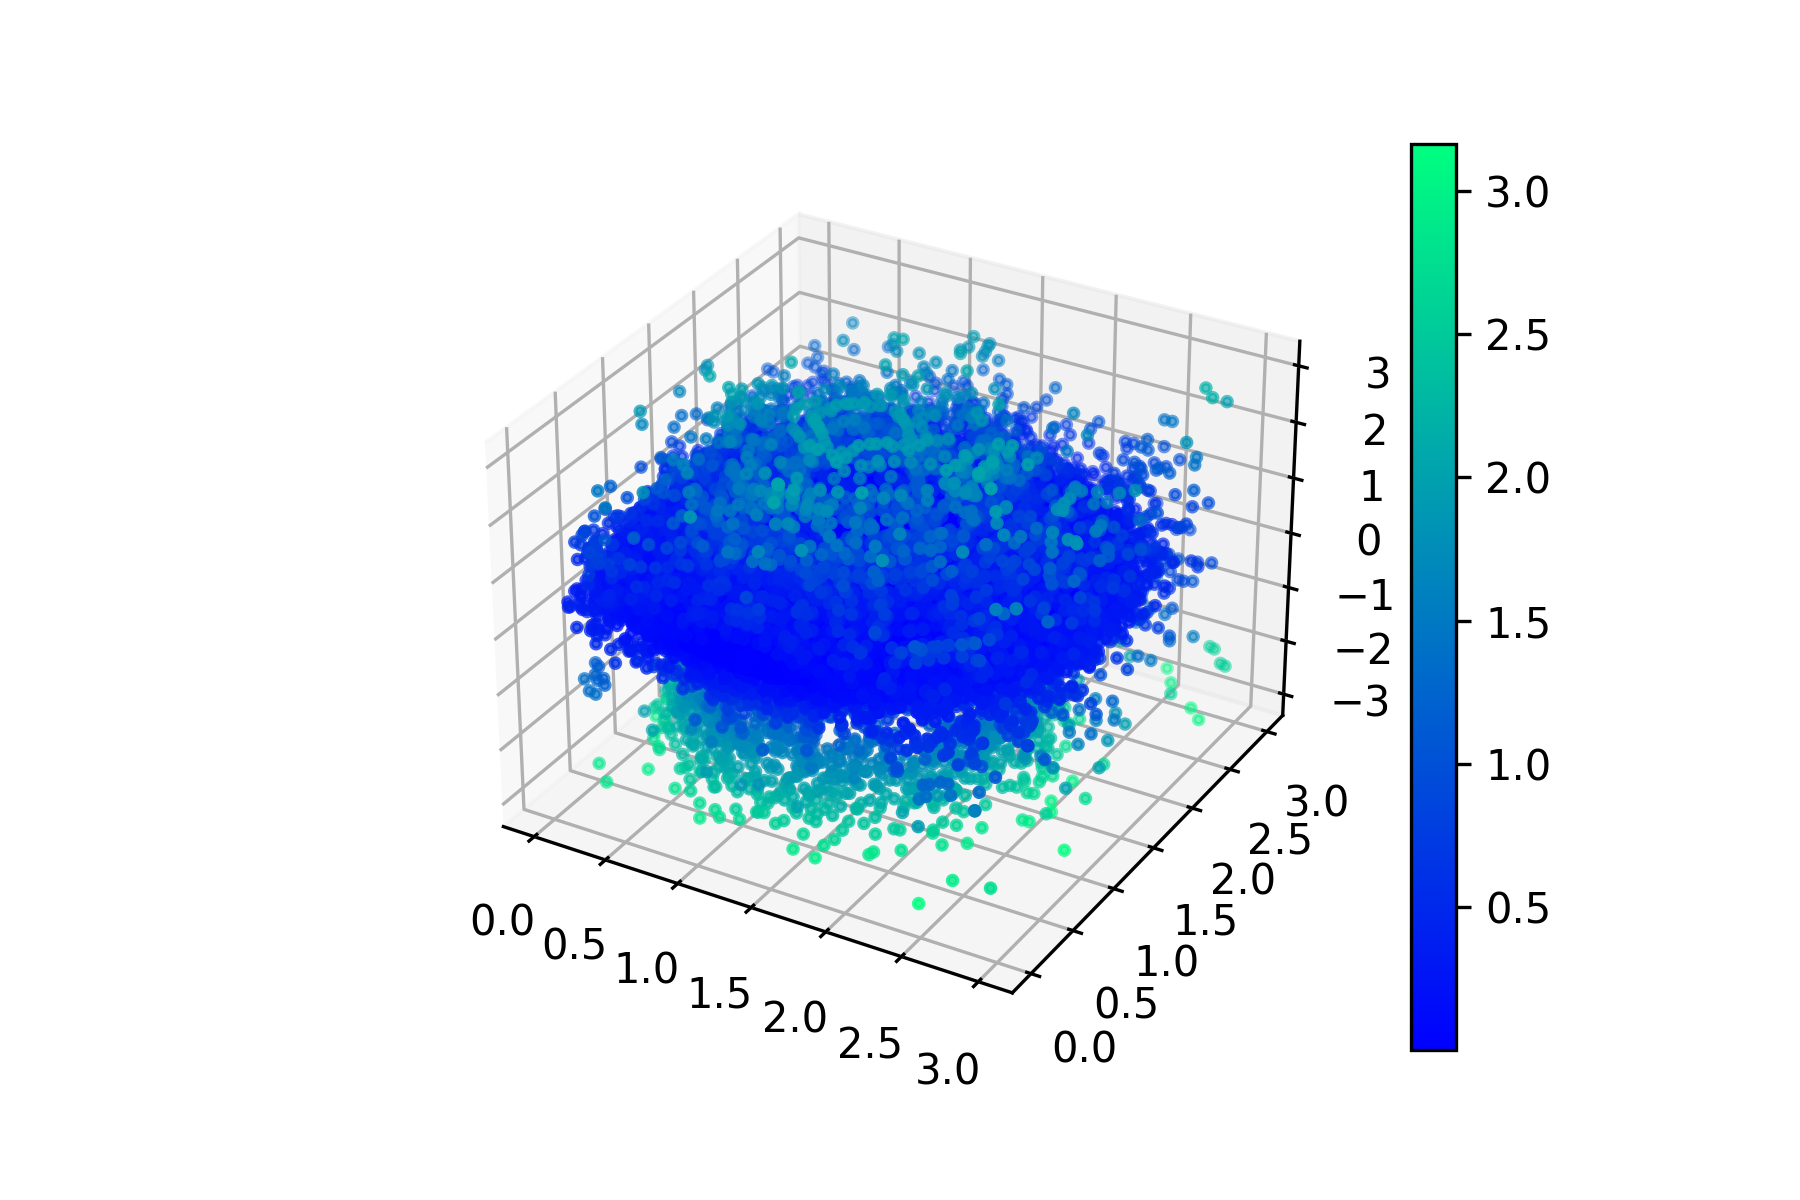
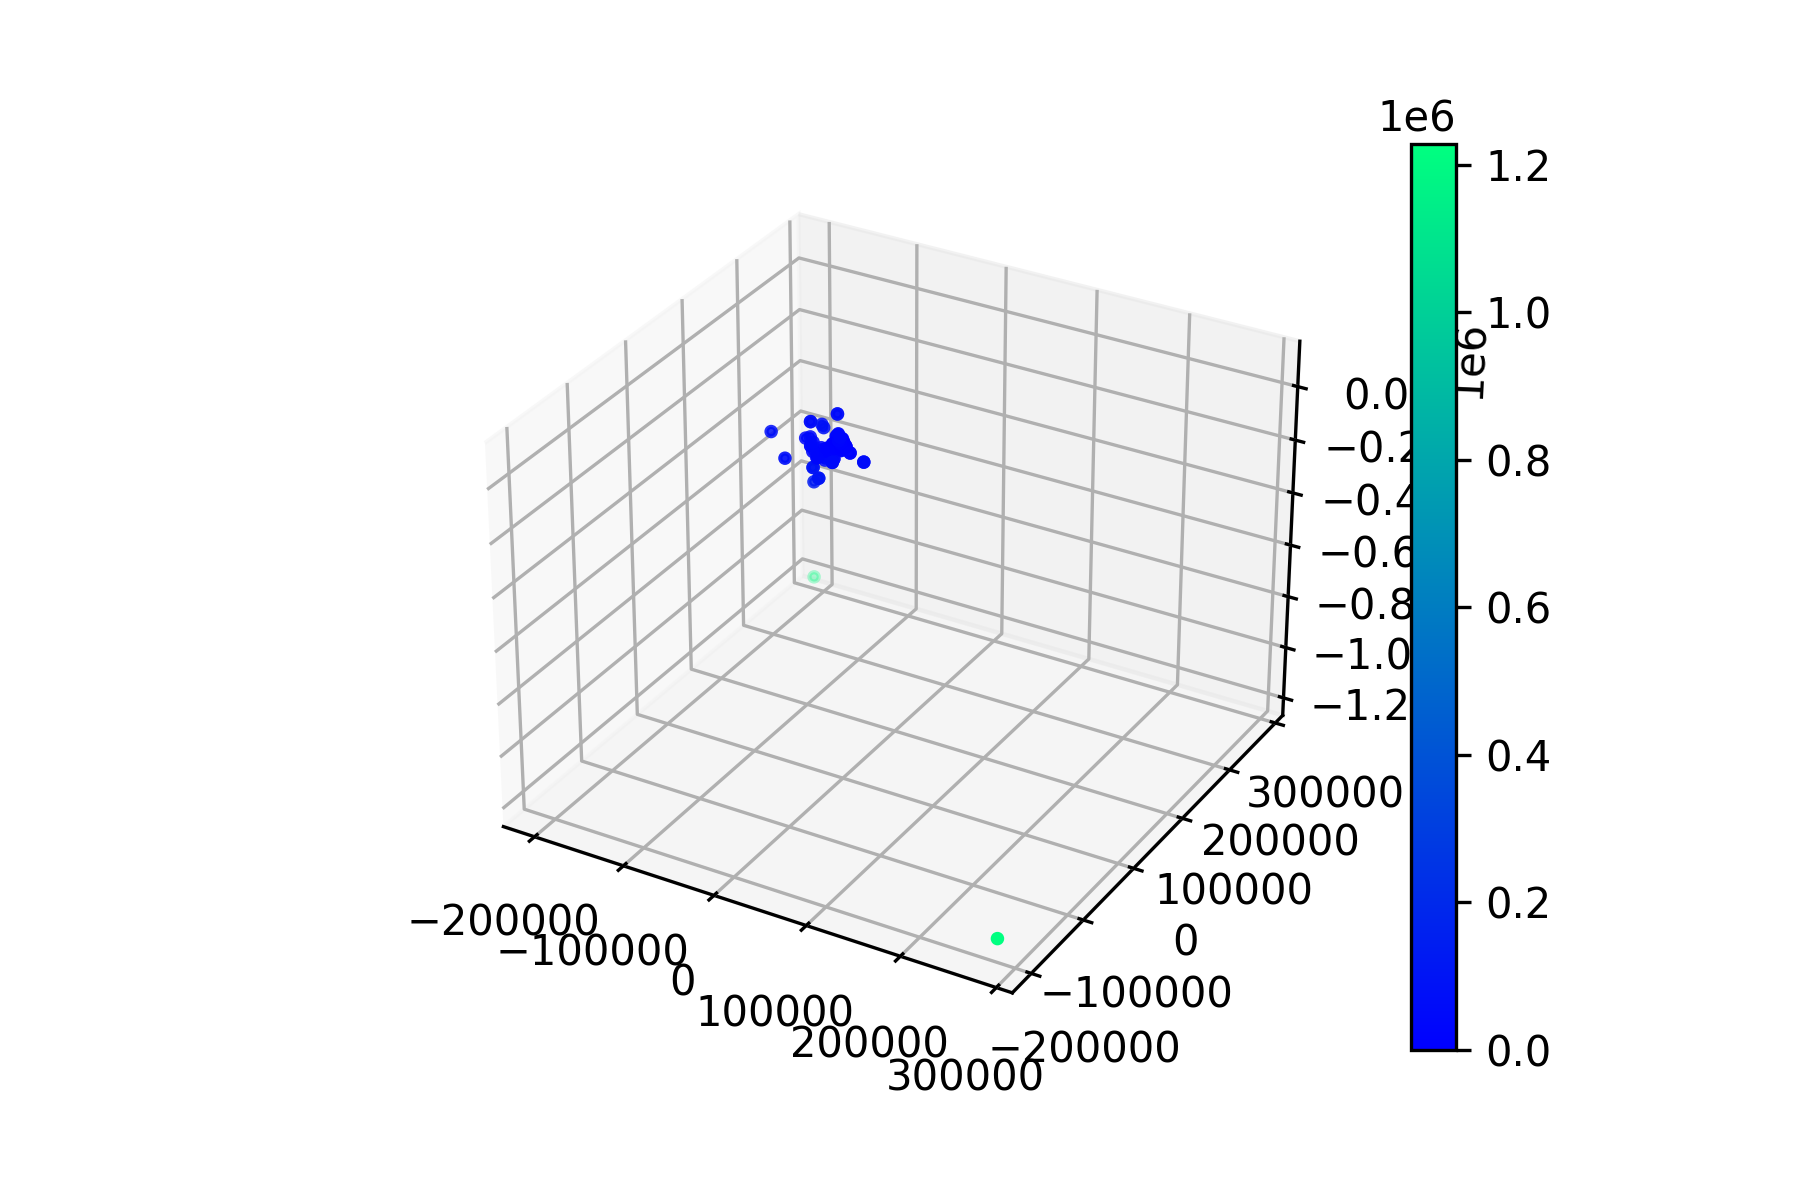
testrun

diff --git a/SkeleNet.py b/SkeleNet.py
@@ -151,7 +151,8 @@ def skeletize(points : list,norms : list,threshDistance : float,tree : kdTree,an
                     # print('norm')
                     SkelePoints.append(centerp[leng])
                     SkeleRad.append(tempr[leng])
-                
+                if SkeleRad[len(SkeleRad)] > 10:
+                    print('Error1')
                 case = True 
             
             #Overshooting  
@@ -163,6 +164,8 @@ def skeletize(points : list,norms : list,threshDistance : float,tree : kdTree,an
                     acp[index].append(centerp[leng - 1])
                     atp[index].append(testp[leng - 1])
                     arad[index].append(tempr[leng - 1])
+                if SkeleRad[len(SkeleRad)] > 10:
+                    print('Error2')
                 case = True
 
             elif i > 1 and dist  < tempr[leng] + threshDistance:
@@ -209,6 +212,8 @@ def skeletize(points : list,norms : list,threshDistance : float,tree : kdTree,an
                         acp[index].append(centerp[leng - 1])
                         atp[index].append(testp[leng - 1])
                         arad[index].append(tempr[leng - 1])
+                    if SkeleRad[len(SkeleRad)] > 10:
+                        print('Error3')
                     case = True
             
             
@@ -237,6 +242,8 @@ def skeletize(points : list,norms : list,threshDistance : float,tree : kdTree,an
                    print(point,testp,tempr,centerp)
                    SkeleRad.append(sml)
                    SkelePoints.append(centerp[n])
+                   if SkeleRad[len(SkeleRad)] > 10:
+                       print('Error4')
                    case = True 
             i += 1
         avgt += (time.time() - stt)
@@ -245,10 +252,10 @@ def skeletize(points : list,norms : list,threshDistance : float,tree : kdTree,an
         if index % 10 == 0:
             tat = avgt / numt
             sat = avgstep / numt
-            print('CPUID:{:02d} TAG:{:02d} || T-Time:{:05.2f}h:{:05.2f}m:{:05.2f}s || A-Time:{:05.2f}m:{:05.2f}s || {}/{} {:05.2f}%-Done avgstep:{:02d}'.format(cpuid,tag,avgt // 3600, (avgt % 3600) // 60,(avgt % 3600) % 60,tat // 60,tat % 60,str(index + 1).zfill(lenptso),len(points), ((index + 1) / (len(points))) * 100,int(np.ceil(sat))),file=sys.stdout) 
+            # print('CPUID:{:02d} TAG:{:02d} || T-Time:{:05.2f}h:{:05.2f}m:{:05.2f}s || A-Time:{:05.2f}m:{:05.2f}s || {}/{} {:05.2f}%-Done avgstep:{:02d}'.format(cpuid,tag,avgt // 3600, (avgt % 3600) // 60,(avgt % 3600) % 60,tat // 60,tat % 60,str(index + 1).zfill(lenptso),len(points), ((index + 1) / (len(points))) * 100,int(np.ceil(sat))),file=sys.stdout) 
         if index % 100 == 0:
             est = tat * (len(points) - index)
-            print('CPUID:{:02d} TAG:{:02d} || E-Time:{:05.2f}h:{:05.2f}m:{:05.2f}s'.format(cpuid,tag,est // 3600,(est % 3600) // 60,(est % 3600) % 60),file=sys.stdout)
+            # print('CPUID:{:02d} TAG:{:02d} || E-Time:{:05.2f}h:{:05.2f}m:{:05.2f}s'.format(cpuid,tag,est // 3600,(est % 3600) // 60,(est % 3600) % 60),file=sys.stdout)
         index += 1
     te = time.time()
     tt = te - ts

diff --git a/3DFIG.py b/3DFIG.py
@@ -27,11 +27,11 @@ with open('SkeleSave.dat','r') as csvfile:
             z = float(row[2])
             r = float(row[3])
             print(i)
-            if x > 0 and x < 3 and y > 0 and y < 3 and z > -3 and z < 3:
-                tx.append(x)
-                ty.append(y)
-                tz.append(z)
-                tr.append(r)
+            # if x > 0 and x < 3 and y > 0 and y < 3 and z > -3 and z < 3:
+            tx.append(x)
+            ty.append(y)
+            tz.append(z)
+            tr.append(r)
                         
 # with open('disk1.dat','r') as csvfile:
 #     data = csv.reader(csvfile, delimiter = ' ')
